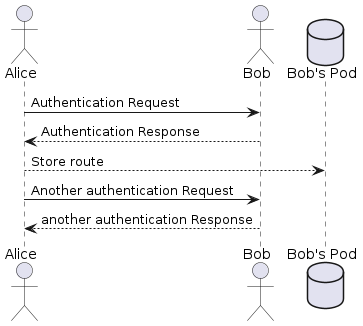
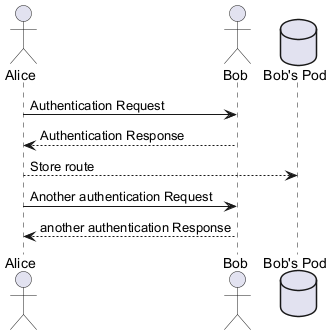
Updates

diff --git a/index.html b/index.html
@@ -4,7 +4,7 @@
 <meta charset="UTF-8">
 <meta http-equiv="X-UA-Compatible" content="IE=edge">
 <meta name="viewport" content="width=device-width, initial-scale=1.0">
-<meta name="generator" content="Asciidoctor 2.0.20">
+<meta name="generator" content="Asciidoctor 2.0.23">
 <title>wichat_es1b</title>
 <link rel="stylesheet" href="https://fonts.googleapis.com/css?family=Open+Sans:300,300italic,400,400italic,600,600italic%7CNoto+Serif:400,400italic,700,700italic%7CDroid+Sans+Mono:400,700">
 <style>
@@ -140,7 +140,7 @@ p a>code:hover{color:rgba(0,0,0,.9)}
 #content::before{content:none}
 #header>h1:first-child{color:rgba(0,0,0,.85);margin-top:2.25rem;margin-bottom:0}
 #header>h1:first-child+#toc{margin-top:8px;border-top:1px solid #dddddf}
-#header>h1:only-child,body.toc2 #header>h1:nth-last-child(2){border-bottom:1px solid #dddddf;padding-bottom:8px}
+#header>h1:only-child{border-bottom:1px solid #dddddf;padding-bottom:8px}
 #header .details{border-bottom:1px solid #dddddf;line-height:1.45;padding-top:.25em;padding-bottom:.25em;padding-left:.25em;color:rgba(0,0,0,.6);display:flex;flex-flow:row wrap}
 #header .details span:first-child{margin-left:-.125em}
 #header .details span.email a{color:rgba(0,0,0,.85)}
@@ -162,6 +162,7 @@ p a>code:hover{color:rgba(0,0,0,.9)}
 #toctitle{color:#7a2518;font-size:1.2em}
 @media screen and (min-width:768px){#toctitle{font-size:1.375em}
 body.toc2{padding-left:15em;padding-right:0}
+body.toc2 #header>h1:nth-last-child(2){border-bottom:1px solid #dddddf;padding-bottom:8px}
 #toc.toc2{margin-top:0!important;background:#f8f8f7;position:fixed;width:15em;left:0;top:0;border-right:1px solid #e7e7e9;border-top-width:0!important;border-bottom-width:0!important;z-index:1000;padding:1.25em 1em;height:100%;overflow:auto}
 #toc.toc2 #toctitle{margin-top:0;margin-bottom:.8rem;font-size:1.2em}
 #toc.toc2>ul{font-size:.9em;margin-bottom:0}
@@ -327,7 +328,7 @@ a.image{text-decoration:none;display:inline-block}
 a.image object{pointer-events:none}
 sup.footnote,sup.footnoteref{font-size:.875em;position:static;vertical-align:super}
 sup.footnote a,sup.footnoteref a{text-decoration:none}
-sup.footnote a:active,sup.footnoteref a:active{text-decoration:underline}
+sup.footnote a:active,sup.footnoteref a:active,#footnotes .footnote a:first-of-type:active{text-decoration:underline}
 #footnotes{padding-top:.75em;padding-bottom:.75em;margin-bottom:.625em}
 #footnotes hr{width:20%;min-width:6.25em;margin:-.25em 0 .75em;border-width:1px 0 0}
 #footnotes .footnote{padding:0 .375em 0 .225em;line-height:1.3334;font-size:.875em;margin-left:1.2em;margin-bottom:.2em}
@@ -551,9 +552,6 @@ For documentation of your own system you use better the <em>plain</em> version.<
 <div class="sect1">
 <h2 id="section-introduction-and-goals">1. Introduction and Goals</h2>
 <div class="sectionbody">
-<div class="paragraph">
-<p>Small change from Labra to check deployment&#8230;&#8203;</p>
-</div>
 <div class="sidebarblock arc42help">
 <div class="content">
 <div class="paragraph">
@@ -583,6 +581,28 @@ These include</p>
 </div>
 <div class="sect2">
 <h3 id="_requirements_overview">1.1. Requirements Overview</h3>
+<div class="paragraph">
+<p>Hello I&#8217;ve waited here for you Everlong
+Tonight I throw myself into
+and out of the red, out of her head she sang</p>
+</div>
+<div class="paragraph">
+<p>And I wonder when I sing along with you
+If everything could ever feel this real forever
+If anything could ever be this good again
+The only thing I&#8217;ll ever ask of you
+You&#8217;ve got to promise not to stop when I say when</p>
+</div>
+<div class="paragraph">
+<p>Can&#8217;t stop addicted to the shindig
+Chop Top he says I&#8217;m gonna win big
+Choose not a life of imitation
+Distant cousin to the reservation
+Defunct the pistol that you pay for
+This punk the feeling that you stay for
+In time I want to be your best friend
+Eastside love is living on the West End</p>
+</div>
 <div class="sidebarblock arc42help">
 <div class="content">
 <div class="paragraph">
@@ -1273,7 +1293,7 @@ building block instances depicted in this diagram.&gt;</em></p>
 </div>
 <div class="imageblock">
 <div class="content">
-<img src="./images/Sequence%20diagram.png" alt="Sequence diagram" width="363" height="326">
+<img src="./images/Sequence%20diagram.png" alt="Sequence diagram" width="332" height="335">
 </div>
 </div>
 </div>
@@ -1806,7 +1826,7 @@ more precisely down to a level of scenarios that can be discussed and evaluated.
 <div id="footer">
 <div id="footer-text">
 Version 8.2 EN<br>
-Last updated 2025-02-04 10:15:03 +0100
+Last updated 2025-02-04 09:13:06 +0100
 </div>
 </div>
 </body>
